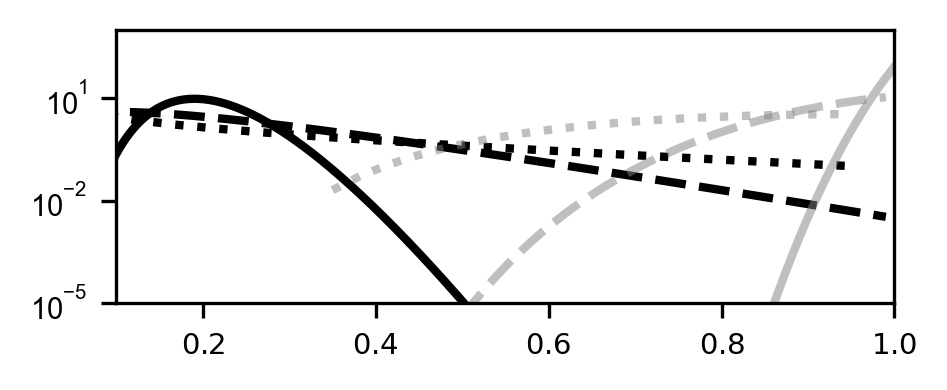
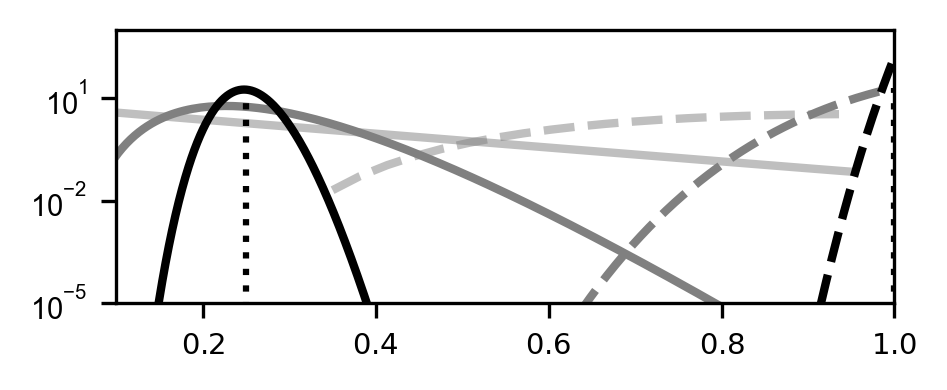
Corrected Fig2b

diff --git a/Simulations/Fig2_CompleteDistComparisons_VaryN/Plotting.py b/Simulations/Fig2_CompleteDistComparisons_VaryN/Plotting.py
@@ -74,12 +74,12 @@ Params = ([100,0.9,0.01,'k'],
         [4000,0.99,0.09,'k'])
 """
 
-Params = ([20,0.9,0.02,'k'],
-        [100,0.9,0.02],
-        [1000,0.9,0.02],
+Params = ([20,0.8,0.05,'k'],
+        [200,0.8,0.05],
+        [2000,0.8,0.05],
         [20,0.7,0.35,'k'],
-        [100,0.7,0.35],
-        [1000,0.7,0.35])
+        [200,0.7,0.35],
+        [2000,0.7,0.35])
 
 
 Data = []
@@ -164,12 +164,15 @@ for i in Params:
         hist[int(n + Z)] += 1
     """
 
-    if N < 100:
-        linestyle = 'dotted'
-    elif N == 100:
-        linestyle = 'dashed'
-    elif N == 1000:
-        linestyle = 'solid'
+    if N < 200:
+        color = 'grey'
+        alpha=0.5
+    elif N == 200:
+        color = 'grey'
+        alpha = 1
+    elif N == 2000:
+        color = 'black'
+        alpha = 1
 
     #plt.plot(np.linspace(0,1,N),hist/sum(hist)*N,color=i[3],linewidth=3,linestyle='dotted')
 
@@ -182,15 +185,15 @@ for i in Params:
     print("mean = ",mean)
 
     if abs(z/(1-F) -0.2) < 0.1:
-        color = 'k'
-        alpha = 1
+        linestyle = 'solid'
     else:
-        color = 'grey'
-        alpha = 0.5
+        linestyle='dashed'
     plt.plot(n+z,Ana,color=color,linewidth=2,alpha=alpha,linestyle=linestyle)
 
 
 
+plt.plot([0.25,0.25],[0,20],linestyle='dotted',color='k')
+plt.plot([1,1],[0,20],linestyle='dotted',color='k')
 
 
 
